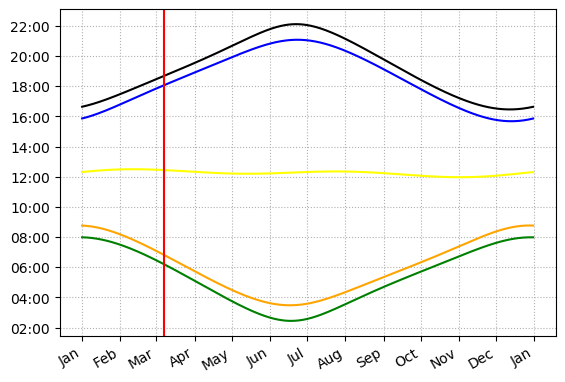
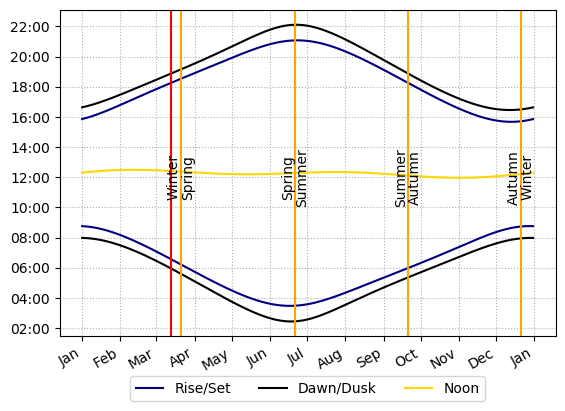
correct Sun code for Golden Hour, alter formatting of Day Graph and correct location of text, add in Seasons info legend and formatting on Year Graph

diff --git a/app/YearGraph.py b/app/YearGraph.py
@@ -29,6 +29,8 @@ GRAPH_ROOT=config.get('folder','Graph')
 # how often script should run (sleep time)
 UPDATE_INTERVAL = int(config.get('general','UpdateInterval'))
 
+
+
 #print(location)
 # start loop over programme
 
@@ -38,6 +40,15 @@ while var > 0:
 
 	#get current date and time as a reference point
 	Now = dt.datetime.now()
+
+	#get seasons
+	
+	SPRING = dt.datetime(Now.year,int(config.get('seasons','Spring').split('/')[1]),int(config.get('seasons','Spring').split('/')[0]),0,0)
+	#print(SPRING)
+	SUMMER = dt.datetime(Now.year,int(config.get('seasons','Summer').split('/')[1]),int(config.get('seasons','Summer').split('/')[0]),0,0)
+	AUTUMN = dt.datetime(Now.year,int(config.get('seasons','Autumn').split('/')[1]),int(config.get('seasons','Autumn').split('/')[0]),0,0)
+	WINTER = dt.datetime(Now.year,int(config.get('seasons','Winter').split('/')[1]),int(config.get('seasons','Winter').split('/')[0]),0,0)
+
 	#print(Now)
 
 	# initialise x values
@@ -73,11 +84,11 @@ while var > 0:
 	fig, ax = plt.subplots()
 
 	# plot x and y values
-	ax.plot(x, y_RiseOfficial,'Orange')
-	ax.plot(x, y_SetOfficial,'Blue')
-	ax.plot(x, y_RiseCivil,'Green')
-	ax.plot(x, y_SetCivil,'Black')
-	ax.plot(x, y_Midday,'Yellow')
+	ax.plot(x, y_RiseOfficial,'navy',label = 'Rise/Set')
+	ax.plot(x, y_SetOfficial,'navy')
+	ax.plot(x, y_RiseCivil,'black',label = 'Dawn/Dusk')
+	ax.plot(x, y_SetCivil,'black')
+	ax.plot(x, y_Midday,'Gold', label = 'Noon')
 
 	# show vertical and horizontal gridlines
 	ax.grid(which='major', axis='x',linestyle='dotted')
@@ -86,6 +97,21 @@ while var > 0:
 
 	# show where we are in the year
 	plt.axvline(x=Now, color='red') # time now
+	# add in seasons lines
+	plt.axvline(x=SPRING,color = 'orange')
+	plt.axvline(x=SUMMER,color = 'orange')
+	plt.axvline(x=AUTUMN,color = 'orange')
+	plt.axvline(x=WINTER,color = 'orange')
+
+	# add in season text
+	ax.text(SPRING, dt.datetime(Now.year,1,1,12,0), 'Spring', ha='left', va='center', rotation=90)
+	ax.text(SPRING, dt.datetime(Now.year,1,1,12,0), 'Winter', ha='right', va='center', rotation=90)
+	ax.text(SUMMER, dt.datetime(Now.year,1,1,12,0), 'Summer', ha='left', va='center', rotation=90)
+	ax.text(SUMMER, dt.datetime(Now.year,1,1,12,0), 'Spring', ha='right', va='center', rotation=90)
+	ax.text(AUTUMN, dt.datetime(Now.year,1,1,12,0), 'Autumn', ha='left', va='center', rotation=90)
+	ax.text(AUTUMN, dt.datetime(Now.year,1,1,12,0), 'Summer', ha='right', va='center', rotation=90)
+	ax.text(WINTER, dt.datetime(Now.year,1,1,12,0), 'Winter', ha='left', va='center', rotation=90)
+	ax.text(WINTER, dt.datetime(Now.year,1,1,12,0), 'Autumn', ha='right', va='center', rotation=90)
 
 
 	#format the axis text
@@ -98,6 +124,9 @@ while var > 0:
 	plt.gca().xaxis.set_major_formatter(xfmt)
 	plt.gcf().autofmt_xdate()
 	plt.gca().yaxis.set_major_formatter(yfmt)
+
+	# add in legend below graph
+	ax.legend(loc='upper center', bbox_to_anchor=(0.5, -0.1),ncol=3)
 
 	# save the plot
 	fig.savefig(''.join([GRAPH_ROOT,'Year','.png']),bbox_inches='tight')

diff --git a/app/DayGraph.py b/app/DayGraph.py
@@ -150,11 +150,12 @@ while var > 0:
 	plt.axhline(y=0, color='black') # horizon
 	plt.vlines(x=Dawn, ymin = -0.1, ymax = 0.1, color='grey')
 	plt.vlines(x=Dusk, ymin = -0.1, ymax = 0.1, color='grey')
-	plt.vlines(x=Noon, ymin = -0.1, ymax = 0.1, color='grey')
+	plt.vlines(x=Noon, ymin = -0.1, ymax = 0.1, color='gold')
 	plt.vlines(x=Sunrise, ymin = -0.1, ymax = 0.1, color='grey')
 	plt.vlines(x=Sunset, ymin = -0.1, ymax = 0.1, color='grey')
-	plt.vlines(x=GoldenRise, ymin = -0.1, ymax = 0.1, color='grey')
-	plt.vlines(x=GoldenSet, ymin = -0.1, ymax = 0.1, color='grey')
+	plt.vlines(x=GoldenRise, ymin = -0.1, ymax = 0.1, color='gold')
+	plt.vlines(x=GoldenSet, ymin = -0.1, ymax = 0.1, color='gold')
+
 	# only draw hour line if its 1 hours before Dawn and 1 hours after Dusk, otherwise the graph stretches to accommodate the hour line
 	if (dNow > (dDawn - 1)) and (dNow < (dDusk - 1)):
 	#print("within graph")
@@ -170,15 +171,15 @@ while var > 0:
 	ax.text(Noon, 0.15, ''.join(['Noon: ', str(Noon.hour).zfill(2),":",str(Noon.minute).zfill(2)]), ha='center', va='bottom', rotation=90)
 	ax.text(Sunrise, 0.15, ''.join(['Sunrise: ', str(Sunrise.hour).zfill(2),":",str(Sunrise.minute).zfill(2)]), ha='center', va='bottom', rotation=90)
 	ax.text(Sunset, 0.15, ''.join(['Sunset: ', str(Sunset.hour).zfill(2),":",str(Sunset.minute).zfill(2)]), ha='center', va='bottom', rotation=90)
-	ax.text(GoldenRise, 0.7, ''.join(['Golden: ', str(GoldenRise.hour).zfill(2),":",str(GoldenRise.minute).zfill(2)]), ha='right', va='bottom')
-	ax.text(GoldenSet, 0.7, ''.join(['Golden: ', str(GoldenSet.hour).zfill(2),":",str(GoldenSet.minute).zfill(2)]), ha='left', va='bottom')
+	ax.text(GoldenRise, 0.15, ''.join(['Golden: ', str(GoldenRise.hour).zfill(2),":",str(GoldenRise.minute).zfill(2)]), ha='center', va='bottom', rotation=90)
+	ax.text(GoldenSet, 0.15, ''.join(['Golden: ', str(GoldenSet.hour).zfill(2),":",str(GoldenSet.minute).zfill(2)]), ha='center', va='bottom', rotation=90)
 	ax.text(Noon,1.1,''.join(['Length Of Day: ', str(LengthOfDay.hour).zfill(2),":",str(LengthOfDay.minute).zfill(2)]), ha='center', va='bottom')
 
 
 
 	#shade graph as day progresses using adjusted curves
 
-	plt.fill_between(xdnow, 0, y2,interpolate=True, color='blue')
+	plt.fill_between(xdnow, 0, y2,interpolate=True, color='skyblue')
 
 	# autoformat the times
 

diff --git a/app/modules/Sun/Sun.py b/app/modules/Sun/Sun.py
@@ -22,12 +22,12 @@ class Sun:
 		#print(location)
 		
 		# already cos(zenith) for step 7a below
-		#zenith ] 0.01454  # golden
+		#zenith ] 0.10472  # golden +6 degrees above horizon
 		#zenith = -0.01454 # official
 		#zenith = -0.10453 # civil
 		#zenith = -0.20791 # nautical
 		#zenith = -0.30902 # astronomical
-		zenith = [0.01454,-0.01454, -0.10453, -0.20791, -0.30902]
+		zenith = [0.10472,-0.01454, -0.10453, -0.20791, -0.30902]
 		
 		# 1) calculate the day of the year
 		
